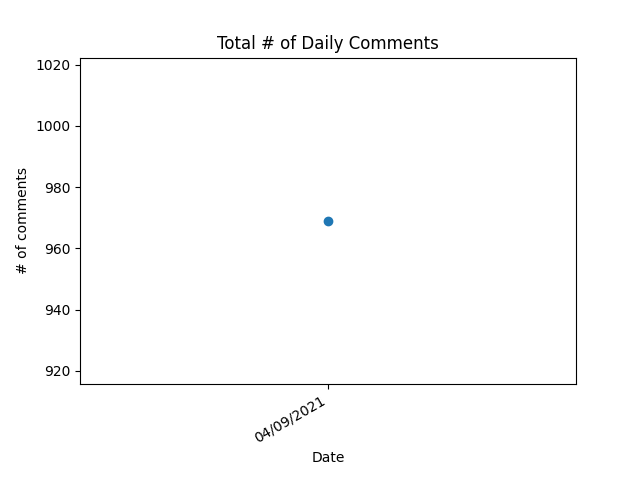
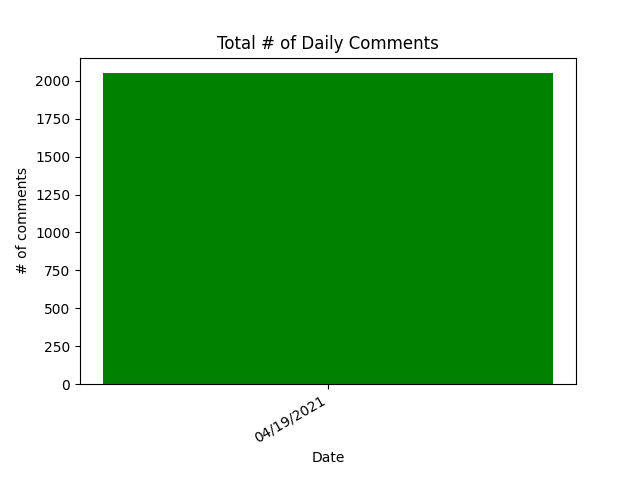
added graph
graph of comment data

diff --git a/index.html b/index.html
@@ -22,7 +22,7 @@ text{
 }
 </style>
 <body>
-<h1> r/wallstreetbets Top 5 Most Discussed Stocks of the Day on 04/11/2021:</h1>
+<h1> r/wallstreetbets Top 5 Most Discussed Stocks of the Day on 04/19/2021:</h1>
 <text>This website updates daily at 4:02pm and displays the top 5 most mentioned
 stocks from the Daily Discussion thread of the wallstreetbets subreddit.
 The goal of this website is to track the overall growth of this subreddit and
@@ -52,6 +52,7 @@ stocks will be recorded and graphed daily.</text>
     <p>As of 9:15am TSLA had 11 mentions in 1146 comments. At market open TSLA was valued at: $674.19 and at market close TSLA was valued at: $662.16. The total change in price throughout the day was: $-12.03 this is a -1.78% change in price throughout the day.</p>
 </div>
 <h3>Net profit of all 5 stocks: $<span style="color:red">-28.79</span></h3>
+<h3>Net percent change of all 5 stocks: <span style="color:red">-19.39%</span></h3>
 <img src='commentsgraph.png'>
 </body>
 </html>

diff --git a/finaldata.py b/finaldata.py
@@ -35,13 +35,17 @@ for i in range(len(toptickers)):
 output.write("Total increase in top mentioned stocks: $" + str(round(sum(netchange),2)) + "\n")
 output.write("------------------------------------------------------------------------------------------" + "\n")
 output.close()
-if(round(sum(netchange),2) > 0):
-    redgreen = "green"
+if(round(sum(netchange),2) >= 0):
+    redgreen1 = "green"
 else:
-    redgreen = "red"
+    redgreen1 = "red"
 percentchange = []
 for i in range(len(netchange)):
     percentchange.append(((float(closeprice[i]) - float(openprice[i])) / float(openprice[i])) * 100)
+if(round(sum(percentchange),2) >= 0):
+    redgreen2 = "green"
+else:
+    redgreen2 = "red"
 cdata = open('commentdata.txt','r')
 Lines = cdata.readlines()
 commentdata = []
@@ -57,22 +61,25 @@ for line in Lines:
     prettydate = data[0]
     datedata.append(prettydate[5:7] + "/" + prettydate[8:10] + "/"  + prettydate[0:4])
 ddata.close()
+if(commentdata[len(commentdata)-1] >= commentdata[len(commentdata)-2]):
+    redgreen3 = "green"
+else:
+    redgreen3 = "red"
 plt.figure()
 plt.title('Total # of Daily Comments')
 plt.ylabel('# of comments')
 plt.xlabel('Date')
-#for scatter I need to find out how to cover range of min and max of commentdata as y-axis values
-#and then i can just plot each value associated with # of comments
-# make up some data
-plt.scatter(datedata,commentdata)
-plt.plot(datedata,commentdata)
+plt.bar(datedata,commentdata,color=redgreen3)
 plt.gcf().autofmt_xdate()
-plt.savefig('commentsgraph.png')
-#Scatter Plot may help additional visualization
+plt.savefig("commentsgraph.png")
+plt.show()
+#next graph I could add is a bar graph that shows price change of previous days
+#with this graph I could pull price change of nasdaq daily...
+#what other graphics would show importance of data
+#csv
+#grid based design -> get feedback
+#google new york times data stories
 
-#ok whenever i figure out how to graph this data correctly I think the strat to get this in html form
-#is to output graph as csv if thats a thing I can do with matplotlib and then open that same csv file
-#and make it a div in the html file
 f = open('index.html','w')
 html = """<!DOCTYPE html>
 <html>
@@ -127,7 +134,8 @@ stocks will be recorded and graphed daily.</text>
     <h2>5. """ + toptickers[4] + """</h2>
     <p>As of 9:15am """ + toptickers[4] + """ had """ + str(tickermentions[4]) + """ mentions in """ + str(comments) + """ comments. At market open """ + toptickers[4] + """ was valued at: $""" + str(openprice[4]) + """ and at market close """ + toptickers[4] + """ was valued at: $""" + str(closeprice[4]) + """. The total change in price throughout the day was: $""" + str(round(netchange[4],2)) + """ this is a """ + str(round(percentchange[4],2)) + """% change in price throughout the day.</p>
 </div>
-<h3>Net profit of all 5 stocks: $<span style="color:""" + redgreen + """">""" + str(round(sum(netchange),2)) + """</span></h3>
+<h3>Net profit of all 5 stocks: $<span style="color:""" + redgreen1 + """">""" + str(round(sum(netchange),2)) + """</span></h3>
+<h3>Net percent change of all 5 stocks: <span style="color:""" + redgreen2 + """">""" + str(round(sum(percentchange),2)) + """%</span></h3>
 <img src='commentsgraph.png'>
 </body>
 </html>"""
